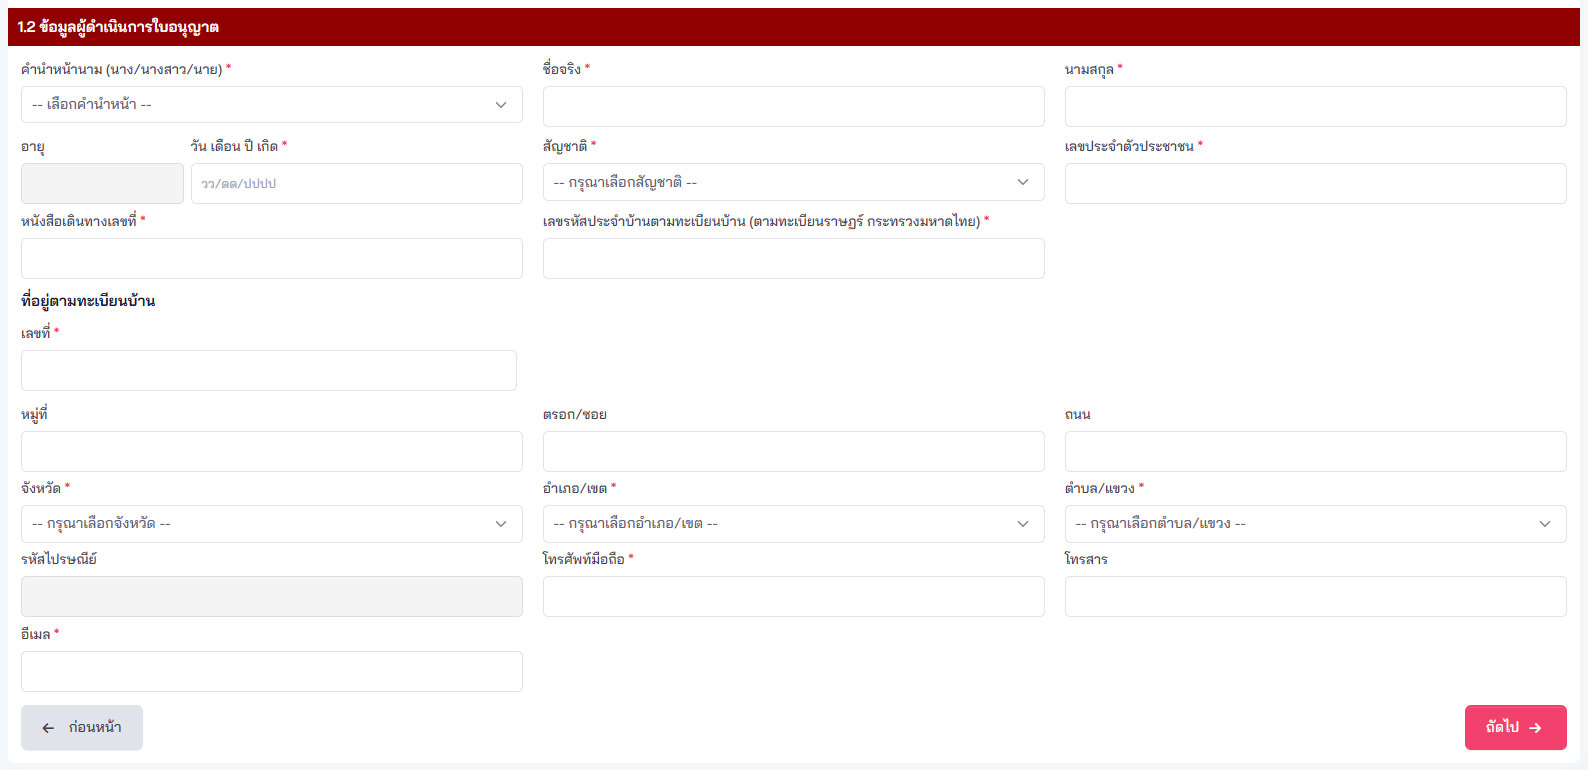
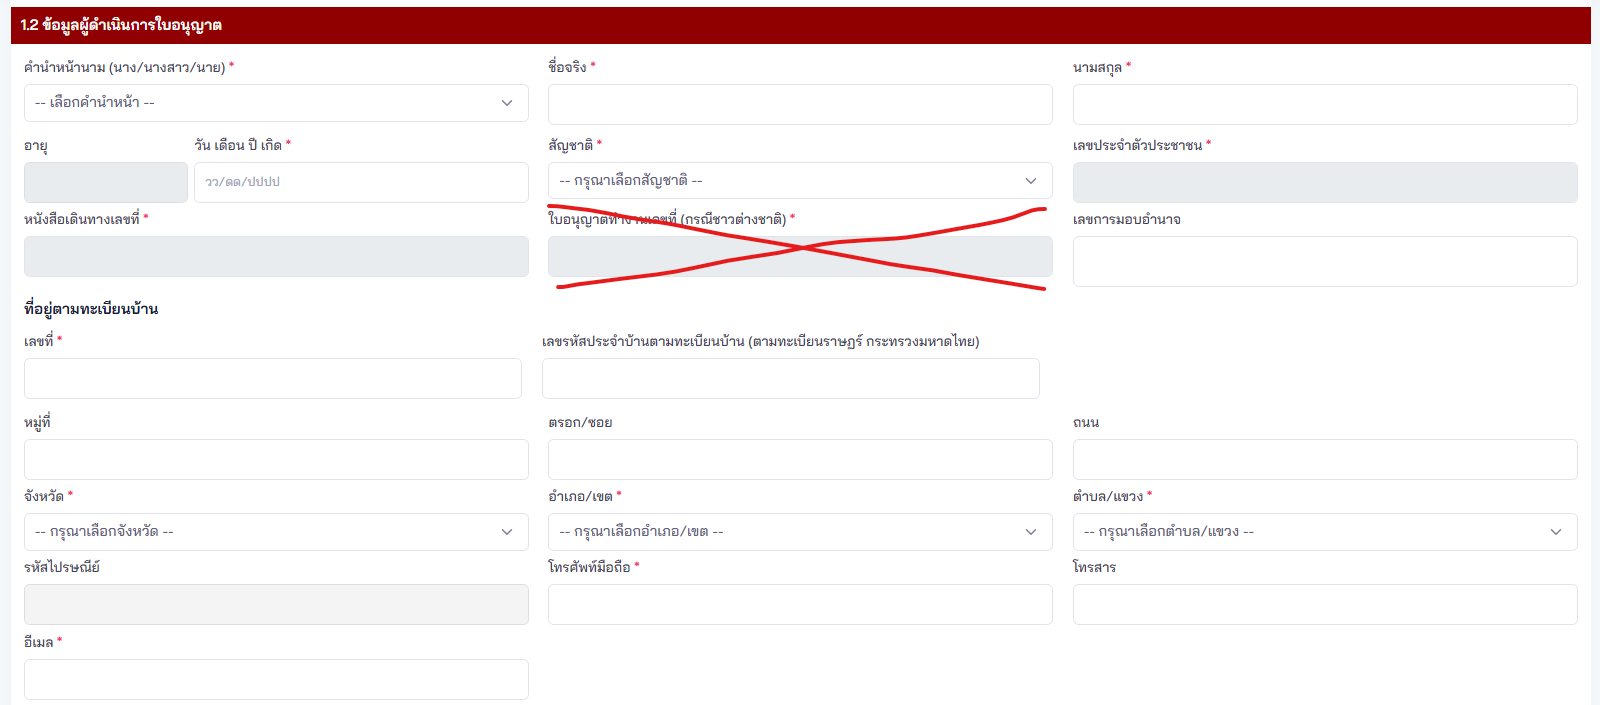
nc5

diff --git a/Narcotic5_Condition.md b/Narcotic5_Condition.md
@@ -41,7 +41,7 @@ li {
 |:---:|---|---|---|---|
 | 1 | การดำเนินการ | `Requisition`.`OperationTypeId` |  | การดำเนินการ อ้างอิง `MasterOperationType`.`Id` <br> 1 - ผลิต, 3 - นำเข้า, 4 - ส่งออก, 5 - จำหน่าย <br> 7 - ครอบครอง, 8 - ผลิตโดยการปลูก, 9 - ผลิตที่มิใช่การปลูก |
 | 1 | การดำเนินการ | `Requisition`.`OperationType` |  | ประเภทการดำเนินการ (00 - อื่น ๆ, 01 - ผลิต, 02 - ผลิตส่งออก, 03 - นำเข้า, <br> 04 - ส่งออก, 05 - จำหน่าย, 06 - จำหน่ายขายส่ง, 07 - ครอบครอง) |
-| 2 | ชนิดของยาเสพติดให้โทษในประเภท 5 | `Requisition`.`NarcoticPlantId` |  | ประเภทของพืชเสพติด อ้างอิง `MasterNarcoticPlantType`.`Id` <br> 1 - ฝิ่น, 2 - เห็ดขี้ควาย, 99 - อื่นๆ |
+| 2 | ชนิดของยาเสพติดให้โทษในประเภท 5 | `Requisition`.`NarcoticPlantId` |  | ประเภทของพืชเสพติด อ้างอิง `MasterNarcoticPlant`.`Id` <br> 1 - ฝิ่น, 2 - เห็ดขี้ควาย, 99 - อื่นๆ |
 | 3 | ชนิดของพืชเสพติดประเภท 5 กรณีเป็นอื่นๆ | `Requisition`.`NarcoticPlantRemark` |  |  |
 | 4 | วัตถุประสงค์ในการขออนุญาต | `Requisition`.`ObjectiveId` |  | วัตถุประสงค์ อ้างอิง `MasterObjective`.`Id` <br> โดย where หาจาก `MasterObjective`.`RequisitionTypeId` = `20` <br> 20 - เพื่อประโยชน์ของทางราชการในการป้องกันและปราบปรามการกระทำความผิดเกี่ยวกับยาเสพติด <br> 21 - เพื่อประโยชน์ในทางการแพทย์หรือการบำบัดหรือรักษาผู้ป่วย <br> 22 - เพื่อการวิเคราะห์ทางการแพทย์หรือวิทยาศาสตร์ <br> 23 - เพื่อการศึกษาวิจัยทางการแพทย์หรือวิทยาศาสตร์ |
 | 4.1 | ชื่อโครงการวิจัย |  | ถ้าเลือก `MasterObjective`.`Id` = 23 - เพื่อการศึกษาวิจัยทางการแพทย์หรือวิทยาศาสตร์ |  |
